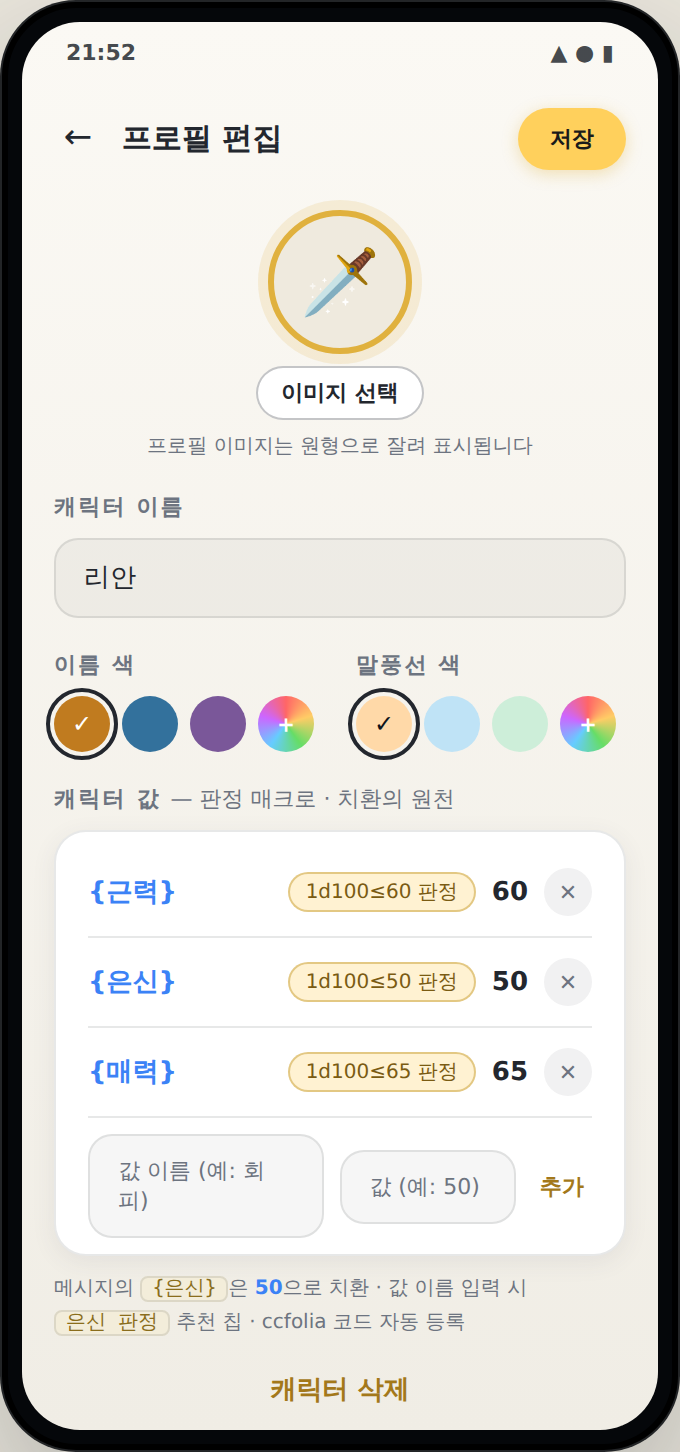
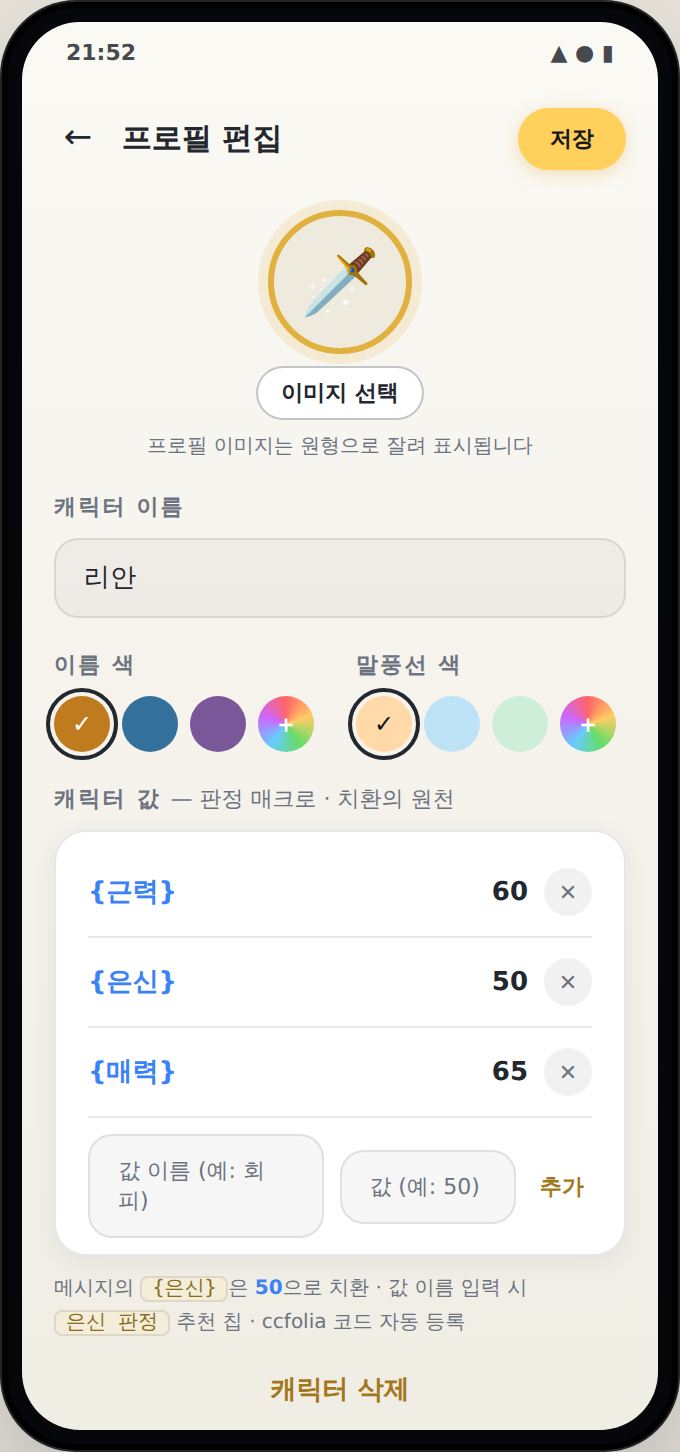
목업 판정 칩 제거 + 목업 디자인 코드 반영: 값 카드·메시지 액션 팝업
- 목업: 캐릭터 값 행의 판정 매크로 칩 삭제 ({이름}·값·삭제만)
- Tokens.kt: 라이트 모드 파생 토큰 추가 — signatureInk(#A3781A),
  danger(#C94F4F) / 다크는 기존 색 유지
- ProfileEditScreen: 캐릭터 값을 패널 카드(반경 16 + 구분선)로 묶고
  추가 행을 카드 안으로, 치환·추천 힌트 한 줄을 카드 아래로
- ChatScreen: 롱프레스 메뉴를 커스텀 Dialog로 교체 — 대상 말풍선
  미리보기(옐로 링) + 아이콘 타일 액션 행(편집/삭제) + 취소
- 밝은 배경 위 옐로 텍스트(추가·캐릭터 삭제·편집)는 signatureInk 사용

Claude-Session: https://claude.ai/code/session_01GhuwLQyUHeJ9P3k24NQsCQ

Changed region(s): [[0.4015, 0.5888, 0.7103, 0.7748]]

diff --git a/app/src/main/java/com/pbp/app/ui/profile/ProfileEditScreen.kt b/app/src/main/java/com/pbp/app/ui/profile/ProfileEditScreen.kt
@@ -24,6 +24,7 @@ import androidx.compose.foundation.rememberScrollState
 import androidx.compose.foundation.shape.CircleShape
 import androidx.compose.foundation.shape.RoundedCornerShape
 import androidx.compose.foundation.verticalScroll
+import androidx.compose.material3.HorizontalDivider
 import androidx.compose.material3.IconButton
 import androidx.compose.material3.OutlinedButton
 import androidx.compose.material3.OutlinedTextField
@@ -274,66 +275,86 @@ fun ProfileEditScreen(nav: NavController, profileId: Long) {
                 )
                 Spacer(Modifier.height(PbpDimens.sp5))
 
-                FieldLabel("캐릭터 값 — 메시지에 {값이름}을 쓰면 값으로 바뀝니다")
-                stats.forEachIndexed { _, statEntry ->
-                    val (statName, statValue) = statEntry
+                FieldLabel("캐릭터 값")
+                // 값 목록은 패널 카드로 묶는다 (목업 mockup-profile-values)
+                Column(
+                    Modifier
+                        .fillMaxWidth()
+                        .clip(RoundedCornerShape(PbpDimens.rCard))
+                        .background(tokens.panel)
+                        .border(1.dp, tokens.line, RoundedCornerShape(PbpDimens.rCard))
+                        .padding(horizontal = PbpDimens.sp4, vertical = PbpDimens.sp2),
+                ) {
+                    stats.forEachIndexed { _, statEntry ->
+                        val (statName, statValue) = statEntry
+                        Row(
+                            Modifier.fillMaxWidth().padding(vertical = PbpDimens.sp3),
+                            verticalAlignment = Alignment.CenterVertically,
+                        ) {
+                            Text(
+                                "{$statName}",
+                                fontSize = 13.sp,
+                                fontWeight = FontWeight.Bold,
+                                color = Color(0xFF3B82F6),
+                                modifier = Modifier.weight(1f),
+                            )
+                            Text(statValue, fontSize = 13.sp, fontWeight = FontWeight.Bold, color = tokens.ink)
+                            Spacer(Modifier.width(PbpDimens.sp2))
+                            Box(
+                                Modifier
+                                    .size(24.dp)
+                                    .clip(CircleShape)
+                                    .background(tokens.panel2)
+                                    // index 캡처는 연타 시 stale — 항목 자체로 제거 (P3-6)
+                                    .clickable { stats.remove(statEntry) },
+                                contentAlignment = Alignment.Center,
+                            ) { Text("✕", fontSize = 11.sp, color = tokens.inkDim) }
+                        }
+                        HorizontalDivider(thickness = 1.dp, color = tokens.line)
+                    }
                     Row(
-                        Modifier.fillMaxWidth().padding(bottom = PbpDimens.sp2),
+                        Modifier.padding(vertical = PbpDimens.sp2),
                         verticalAlignment = Alignment.CenterVertically,
                     ) {
-                        Text(
-                            "{$statName}",
-                            fontSize = 13.sp,
-                            fontWeight = FontWeight.Bold,
-                            color = Color(0xFF3B82F6),
-                            modifier = Modifier.weight(1f),
+                        OutlinedTextField(
+                            value = newStatName,
+                            onValueChange = { newStatName = it },
+                            modifier = Modifier.weight(1.2f),
+                            label = { Text("값 이름 (예: 은신)", fontSize = 10.sp) },
+                            singleLine = true,
                         )
-                        Text(statValue, fontSize = 13.sp, color = tokens.ink)
                         Spacer(Modifier.width(PbpDimens.sp2))
-                        Box(
-                            Modifier
-                                .size(24.dp)
-                                .clip(CircleShape)
-                                .background(Color.White.copy(alpha = .08f))
-                                // index 캡처는 연타 시 stale — 항목 자체로 제거 (P3-6)
-                                .clickable { stats.remove(statEntry) },
-                            contentAlignment = Alignment.Center,
-                        ) { Text("✕", fontSize = 11.sp, color = tokens.inkDim) }
+                        OutlinedTextField(
+                            value = newStatValue,
+                            onValueChange = { newStatValue = it },
+                            modifier = Modifier.weight(0.8f),
+                            label = { Text("값 (예: 50)", fontSize = 10.sp) },
+                            singleLine = true,
+                        )
+                        Spacer(Modifier.width(PbpDimens.sp2))
+                        TextButton(
+                            onClick = {
+                                val statName = newStatName.trim()
+                                // 같은 이름이 있으면 값을 교체 — 중복 항목 방지 (P1-8)
+                                val existingIdx = stats.indexOfFirst { it.first == statName }
+                                if (existingIdx >= 0) {
+                                    stats[existingIdx] = statName to newStatValue.trim()
+                                } else {
+                                    stats.add(statName to newStatValue.trim())
+                                }
+                                newStatName = ""
+                                newStatValue = ""
+                            },
+                            enabled = newStatName.isNotBlank(),
+                        ) { Text("추가", fontSize = 11.sp, color = tokens.signatureInk) }
                     }
                 }
-                Row(verticalAlignment = Alignment.CenterVertically) {
-                    OutlinedTextField(
-                        value = newStatName,
-                        onValueChange = { newStatName = it },
-                        modifier = Modifier.weight(1.2f),
-                        label = { Text("값 이름 (예: 은신)", fontSize = 10.sp) },
-                        singleLine = true,
-                    )
-                    Spacer(Modifier.width(PbpDimens.sp2))
-                    OutlinedTextField(
-                        value = newStatValue,
-                        onValueChange = { newStatValue = it },
-                        modifier = Modifier.weight(0.8f),
-                        label = { Text("값 (예: 50)", fontSize = 10.sp) },
-                        singleLine = true,
-                    )
-                    Spacer(Modifier.width(PbpDimens.sp2))
-                    TextButton(
-                        onClick = {
-                            val statName = newStatName.trim()
-                            // 같은 이름이 있으면 값을 교체 — 중복 항목 방지 (P1-8)
-                            val existingIdx = stats.indexOfFirst { it.first == statName }
-                            if (existingIdx >= 0) {
-                                stats[existingIdx] = statName to newStatValue.trim()
-                            } else {
-                                stats.add(statName to newStatValue.trim())
-                            }
-                            newStatName = ""
-                            newStatValue = ""
-                        },
-                        enabled = newStatName.isNotBlank(),
-                    ) { Text("추가", fontSize = 11.sp, color = tokens.signature) }
-                }
+                Text(
+                    "메시지에 {값이름}을 쓰면 값으로 바뀌고, 입력창에 값 이름을 입력하면 판정 매크로가 추천됩니다",
+                    fontSize = 10.sp,
+                    color = tokens.inkDim,
+                    modifier = Modifier.padding(top = PbpDimens.sp2),
+                )
                 Spacer(Modifier.height(PbpDimens.sp5))
 
                 // 실시간 미리보기 — 방 배경 위 조합 확인 (스펙 3장 화면3)
@@ -398,7 +419,7 @@ fun ProfileEditScreen(nav: NavController, profileId: Long) {
                     TextButton(
                         onClick = { vm.delete(existing!!) { nav.popBackStack() } },
                         modifier = Modifier.align(Alignment.CenterHorizontally),
-                    ) { Text("캐릭터 삭제", color = tokens.signature, fontSize = 13.sp) }
+                    ) { Text("캐릭터 삭제", color = tokens.signatureInk, fontSize = 13.sp) }
                 }
                 Spacer(Modifier.height(PbpDimens.sp6))
             }

diff --git a/app/src/main/java/com/pbp/app/ui/chat/ChatScreen.kt b/app/src/main/java/com/pbp/app/ui/chat/ChatScreen.kt
@@ -59,6 +59,7 @@ import androidx.compose.ui.platform.LocalContext
 import androidx.compose.ui.text.font.FontWeight
 import androidx.compose.ui.unit.dp
 import androidx.compose.ui.unit.sp
+import androidx.compose.ui.window.Dialog
 import androidx.lifecycle.ViewModel
 import androidx.lifecycle.viewModelScope
 import androidx.lifecycle.viewmodel.compose.viewModel
@@ -349,42 +350,17 @@ fun ChatScreen(nav: NavController, roomId: Long) {
 
     // 길게 누른 메시지의 편집·삭제 메뉴 (발신자 본인만 진입 가능)
     actionTarget?.let { target ->
-        AlertDialog(
-            onDismissRequest = { actionTarget = null },
-            title = { Text("메시지") },
-            text = {
-                Column {
-                    Text(
-                        "편집",
-                        fontSize = 13.sp,
-                        fontWeight = FontWeight.Bold,
-                        color = Pbp.colors.signature,
-                        modifier = Modifier
-                            .fillMaxWidth()
-                            .clip(RoundedCornerShape(PbpDimens.rCell))
-                            .clickable {
-                                editTarget = target
-                                actionTarget = null
-                            }
-                            .padding(PbpDimens.sp3),
-                    )
-                    Text(
-                        "삭제",
-                        fontSize = 13.sp,
-                        fontWeight = FontWeight.Bold,
-                        color = Color(0xFFFF6B6B),
-                        modifier = Modifier
-                            .fillMaxWidth()
-                            .clip(RoundedCornerShape(PbpDimens.rCell))
-                            .clickable {
-                                deleteTarget = target
-                                actionTarget = null
-                            }
-                            .padding(PbpDimens.sp3),
-                    )
-                }
+        MessageActionDialog(
+            message = target,
+            onEdit = {
+                editTarget = target
+                actionTarget = null
             },
-            confirmButton = { TextButton(onClick = { actionTarget = null }) { Text("취소") } },
+            onDelete = {
+                deleteTarget = target
+                actionTarget = null
+            },
+            onDismiss = { actionTarget = null },
         )
     }
 
@@ -882,6 +858,119 @@ private fun InputZone(
                     .clickable(enabled = canSend, onClick = doSend),
                 contentAlignment = Alignment.Center,
             ) { Text("➤", fontSize = 15.sp, color = Color(0xFF0D1420)) }
+        }
+    }
+}
+
+/**
+ * 길게 누른 메시지의 액션 팝업 (목업 mockup-message-actions).
+ * 대상 말풍선 미리보기(옐로 링)를 시트 위에 띄워 무엇을 다루는지 보여준다.
+ */
+@Composable
+private fun MessageActionDialog(
+    message: Message,
+    onEdit: () -> Unit,
+    onDelete: () -> Unit,
+    onDismiss: () -> Unit,
+) {
+    val tokens = Pbp.colors
+    val bubbleShape = RoundedCornerShape(
+        topStart = PbpDimens.rCard,
+        topEnd = 4.dp,
+        bottomEnd = PbpDimens.rCard,
+        bottomStart = PbpDimens.rCard,
+    )
+    Dialog(onDismissRequest = onDismiss) {
+        Column(Modifier.fillMaxWidth()) {
+            Row(Modifier.fillMaxWidth(), horizontalArrangement = Arrangement.End) {
+                Box(
+                    Modifier
+                        .clip(bubbleShape)
+                        .background(Color(message.senderBubbleColor ?: PbpPalette.bubblePresets.first()))
+                        .border(2.dp, tokens.signature, bubbleShape)
+                        .padding(horizontal = PbpDimens.sp3, vertical = PbpDimens.sp2),
+                ) {
+                    Text(
+                        message.body,
+                        fontSize = 13.sp,
+                        color = tokens.bubbleInk,
+                        maxLines = 3,
+                        overflow = androidx.compose.ui.text.style.TextOverflow.Ellipsis,
+                    )
+                }
+            }
+            Spacer(Modifier.height(PbpDimens.sp3))
+            Column(
+                Modifier
+                    .fillMaxWidth()
+                    .clip(RoundedCornerShape(PbpDimens.rSheet))
+                    .background(tokens.panel)
+                    .padding(PbpDimens.sp4),
+            ) {
+                Text("메시지", fontSize = 15.sp, fontWeight = FontWeight.Bold, color = tokens.ink)
+                Spacer(Modifier.height(PbpDimens.sp2))
+                MessageActionRow(
+                    icon = "✏",
+                    tileColor = tokens.signature,
+                    title = "편집",
+                    titleColor = tokens.signatureInk,
+                    subtitle = "본문을 고치면 (수정됨) 표시가 남습니다",
+                    onClick = onEdit,
+                )
+                MessageActionRow(
+                    icon = "🗑",
+                    tileColor = tokens.danger,
+                    title = "삭제",
+                    titleColor = tokens.danger,
+                    subtitle = "공유된 방이면 상대 화면에서도 사라집니다",
+                    onClick = onDelete,
+                )
+                Row(Modifier.fillMaxWidth(), horizontalArrangement = Arrangement.End) {
+                    Text(
+                        "취소",
+                        fontSize = 13.sp,
+                        fontWeight = FontWeight.Bold,
+                        color = tokens.inkDim,
+                        modifier = Modifier
+                            .clip(RoundedCornerShape(999.dp))
+                            .clickable(onClick = onDismiss)
+                            .padding(horizontal = PbpDimens.sp3, vertical = PbpDimens.sp2),
+                    )
+                }
+            }
+        }
+    }
+}
+
+@Composable
+private fun MessageActionRow(
+    icon: String,
+    tileColor: Color,
+    title: String,
+    titleColor: Color,
+    subtitle: String,
+    onClick: () -> Unit,
+) {
+    Row(
+        Modifier
+            .fillMaxWidth()
+            .clip(RoundedCornerShape(PbpDimens.rCell))
+            .clickable(onClick = onClick)
+            .padding(PbpDimens.sp3),
+        verticalAlignment = Alignment.CenterVertically,
+        horizontalArrangement = Arrangement.spacedBy(PbpDimens.sp3),
+    ) {
+        Box(
+            Modifier
+                .size(34.dp)
+                .clip(RoundedCornerShape(PbpDimens.rCell))
+                .background(tileColor.copy(alpha = .14f))
+                .border(1.dp, tileColor.copy(alpha = .4f), RoundedCornerShape(PbpDimens.rCell)),
+            contentAlignment = Alignment.Center,
+        ) { Text(icon, fontSize = 15.sp) }
+        Column {
+            Text(title, fontSize = 13.sp, fontWeight = FontWeight.Bold, color = titleColor)
+            Text(subtitle, fontSize = 11.sp, color = Pbp.colors.inkDim)
         }
     }
 }

diff --git a/docs/mockup-profile-values.html b/docs/mockup-profile-values.html
@@ -55,7 +55,6 @@ body{
 .statrow:last-of-type{border-bottom:none}
 .statrow b{color:var(--value);font-size:13px;flex:1;font-weight:700}
 .statrow .v{font-size:13px;font-weight:700}
-.statrow .judge{font-size:10px;color:#7a5b12;background:rgba(255,208,92,.28);border:1px solid rgba(200,158,52,.5);border-radius:var(--r-pill);padding:2px 8px}
 .statrow .del{width:24px;height:24px;border-radius:50%;background:rgba(20,25,32,.06);color:var(--ink-dim);font-size:11px;display:flex;align-items:center;justify-content:center;flex-shrink:0}
 .addrow{display:flex;gap:var(--sp-2);align-items:center;padding-top:var(--sp-2)}
 .addrow .input{margin:0;color:var(--ink-dim);font-size:11px}
@@ -110,9 +109,9 @@ body{
 
       <div class="sec-label">캐릭터 값 <span style="letter-spacing:0;font-weight:400">— 판정 매크로 · 치환의 원천</span></div>
       <div class="value-card">
-        <div class="statrow"><b>{근력}</b><span class="judge">1d100≤60 판정</span><span class="v">60</span><div class="del">✕</div></div>
-        <div class="statrow"><b>{은신}</b><span class="judge">1d100≤50 판정</span><span class="v">50</span><div class="del">✕</div></div>
-        <div class="statrow"><b>{매력}</b><span class="judge">1d100≤65 판정</span><span class="v">65</span><div class="del">✕</div></div>
+        <div class="statrow"><b>{근력}</b><span class="v">60</span><div class="del">✕</div></div>
+        <div class="statrow"><b>{은신}</b><span class="v">50</span><div class="del">✕</div></div>
+        <div class="statrow"><b>{매력}</b><span class="v">65</span><div class="del">✕</div></div>
         <div class="addrow">
           <div class="input f1">값 이름 (예: 회피)</div>
           <div class="input f2">값 (예: 50)</div>

diff --git a/app/src/main/java/com/pbp/app/ui/theme/Tokens.kt b/app/src/main/java/com/pbp/app/ui/theme/Tokens.kt
@@ -19,6 +19,8 @@ data class PbpColors(
     val ink: Color,           // 본문 잉크
     val inkDim: Color,        // 보조 텍스트
     val signature: Color,     // 시그니처 옐로 (앱 타이틀 강조는 titleAccent)
+    val signatureInk: Color,  // 밝은 배경 위 옐로 '텍스트'용 — 화이트 모드에선 진한 골드
+    val danger: Color,        // 파괴적 동작 (삭제)
     val titleAccent: Color,   // "PbP" 강조색 — 화이트 모드에선 잉크 블랙
     val themeDefault: Color,  // 방 테마 컬러 기본값(새벽 하늘)
     val chatterBubble: Color, // 잡담 말풍선
@@ -39,6 +41,8 @@ val PbpDarkColors = PbpColors(
     ink = Color(0xFFE8ECF2),
     inkDim = Color(0xFF8B95A5),
     signature = Color(0xFFFFD972),
+    signatureInk = Color(0xFFFFD972),
+    danger = Color(0xFFFF6B6B),
     titleAccent = Color(0xFFFFD972),
     themeDefault = Color(0xFF8EC5E8),
     chatterBubble = Color(0x24FFFFFF),
@@ -59,6 +63,8 @@ val PbpLightColors = PbpColors(
     ink = Color(0xFF23272E),
     inkDim = Color(0xFF6E7683),
     signature = Color(0xFFFFD05C),
+    signatureInk = Color(0xFFA3781A),
+    danger = Color(0xFFC94F4F),
     titleAccent = Color(0xFF23272E),
     themeDefault = Color(0xFF5F9EC7),
     chatterBubble = Color(0x0F141920),
